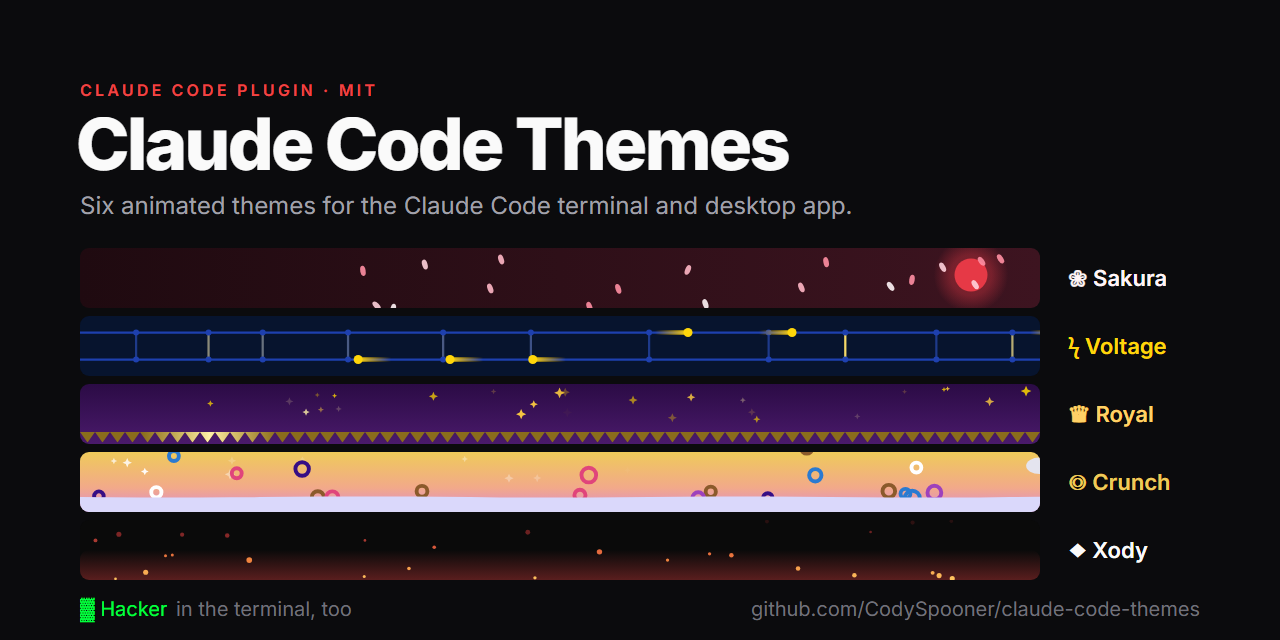
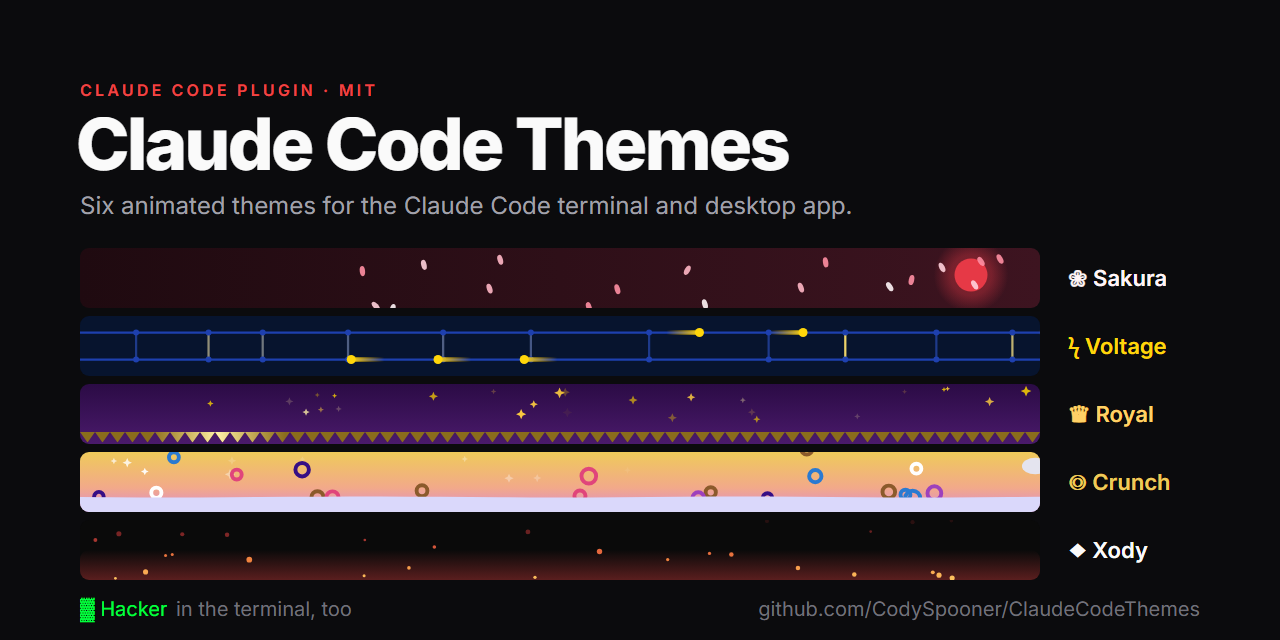
Point links at the renamed ClaudeCodeThemes repo

diff --git a/README.md b/README.md
@@ -37,8 +37,8 @@ The themes come in two packs, so install one or both:
 Type these at the Claude Code prompt:
 
 ```
-/plugin install theme-pack --marketplace CodySpooner/claude-code-themes
-/plugin install hacker-terminal --marketplace CodySpooner/claude-code-themes
+/plugin install theme-pack --marketplace CodySpooner/ClaudeCodeThemes
+/plugin install hacker-terminal --marketplace CodySpooner/ClaudeCodeThemes
 ```
 
 The first time, Claude Code asks to add the `claude-code-themes` marketplace: answer `y`. Then choose a scope: **user** installs the theme for all your projects.
@@ -46,8 +46,8 @@ The first time, Claude Code asks to add the `claude-code-themes` marketplace: an
 ### From a shell
 
 ```bash
-claude plugin install theme-pack --marketplace CodySpooner/claude-code-themes
-claude plugin install hacker-terminal --marketplace CodySpooner/claude-code-themes
+claude plugin install theme-pack --marketplace CodySpooner/ClaudeCodeThemes
+claude plugin install hacker-terminal --marketplace CodySpooner/ClaudeCodeThemes
 ```
 
 ### In the Claude desktop app
@@ -55,7 +55,7 @@ claude plugin install hacker-terminal --marketplace CodySpooner/claude-code-them
 `/plugin` doesn't run in the desktop app. Instead:
 
 1. Click **+** next to the prompt box, then **Plugins**.
-2. Click **Add marketplace** and enter `CodySpooner/claude-code-themes`.
+2. Click **Add marketplace** and enter `CodySpooner/ClaudeCodeThemes`.
 3. Click **Add plugin** for `theme-pack`, `hacker-terminal` or both.
 
 ## Use a theme
@@ -197,7 +197,7 @@ For Hacker, use `hacker-terminal@claude-code-themes` instead. In a session, `/pl
 ## Repository layout
 
 ```
-claude-code-themes/
+ClaudeCodeThemes/
 ├── .claude-plugin/marketplace.json   the marketplace, listing both packs
 ├── theme-pack/                       Sakura, Voltage, Royal, Crunch and Xody
 │   ├── .claude-plugin/plugin.json
